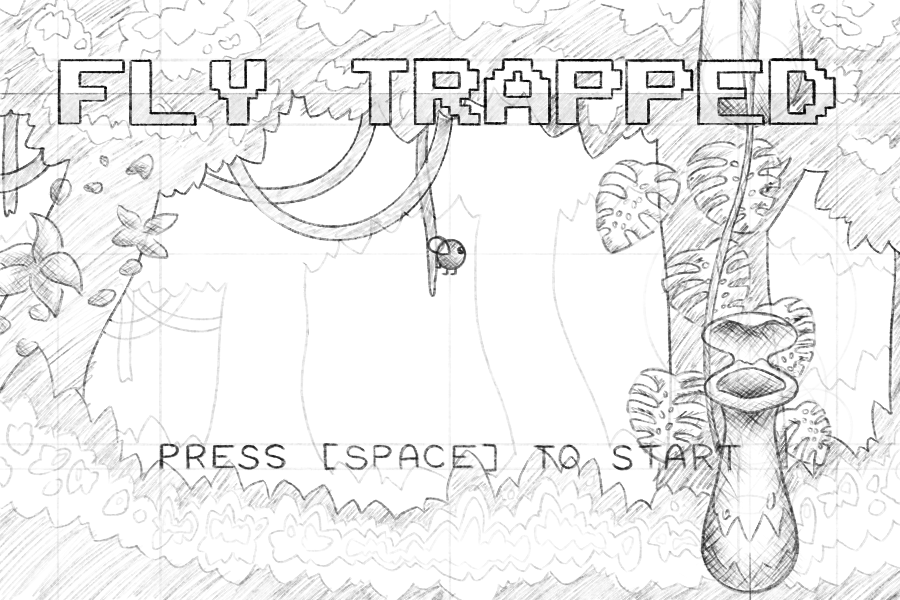
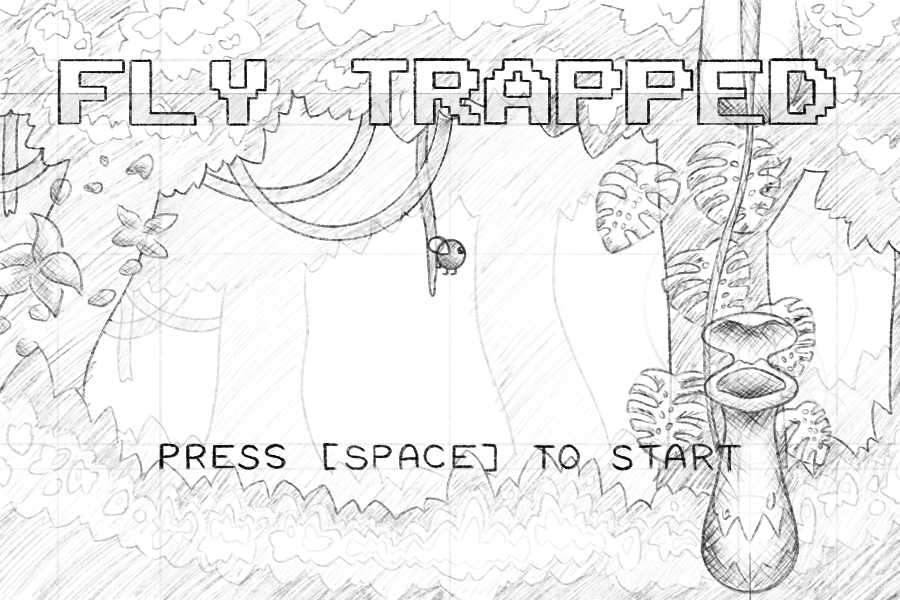
Minor adjustments
- Added KlaarHanger thumbnail image.
- Added updated Fly Trapped thumbnail sketch.
- Adjusted sticky note list spacing

diff --git a/src/styles/tokens.css b/src/styles/tokens.css
@@ -251,8 +251,8 @@
        ========================================================================== */
     --sticky-note-list-gap: 1.5rem;
     --sticky-note-list-bullet-size: 0.5rem;
-    --sticky-note-list-bullet-offset: 0.53125rem;
-    --sticky-note-list-column-gap: 1.5rem;
+    --sticky-note-list-bullet-offset: 0.375rem;
+    --sticky-note-list-column-gap: 1.25rem;
     --sticky-note-skills-gap: 2rem;
 
     /* ==========================================================================
